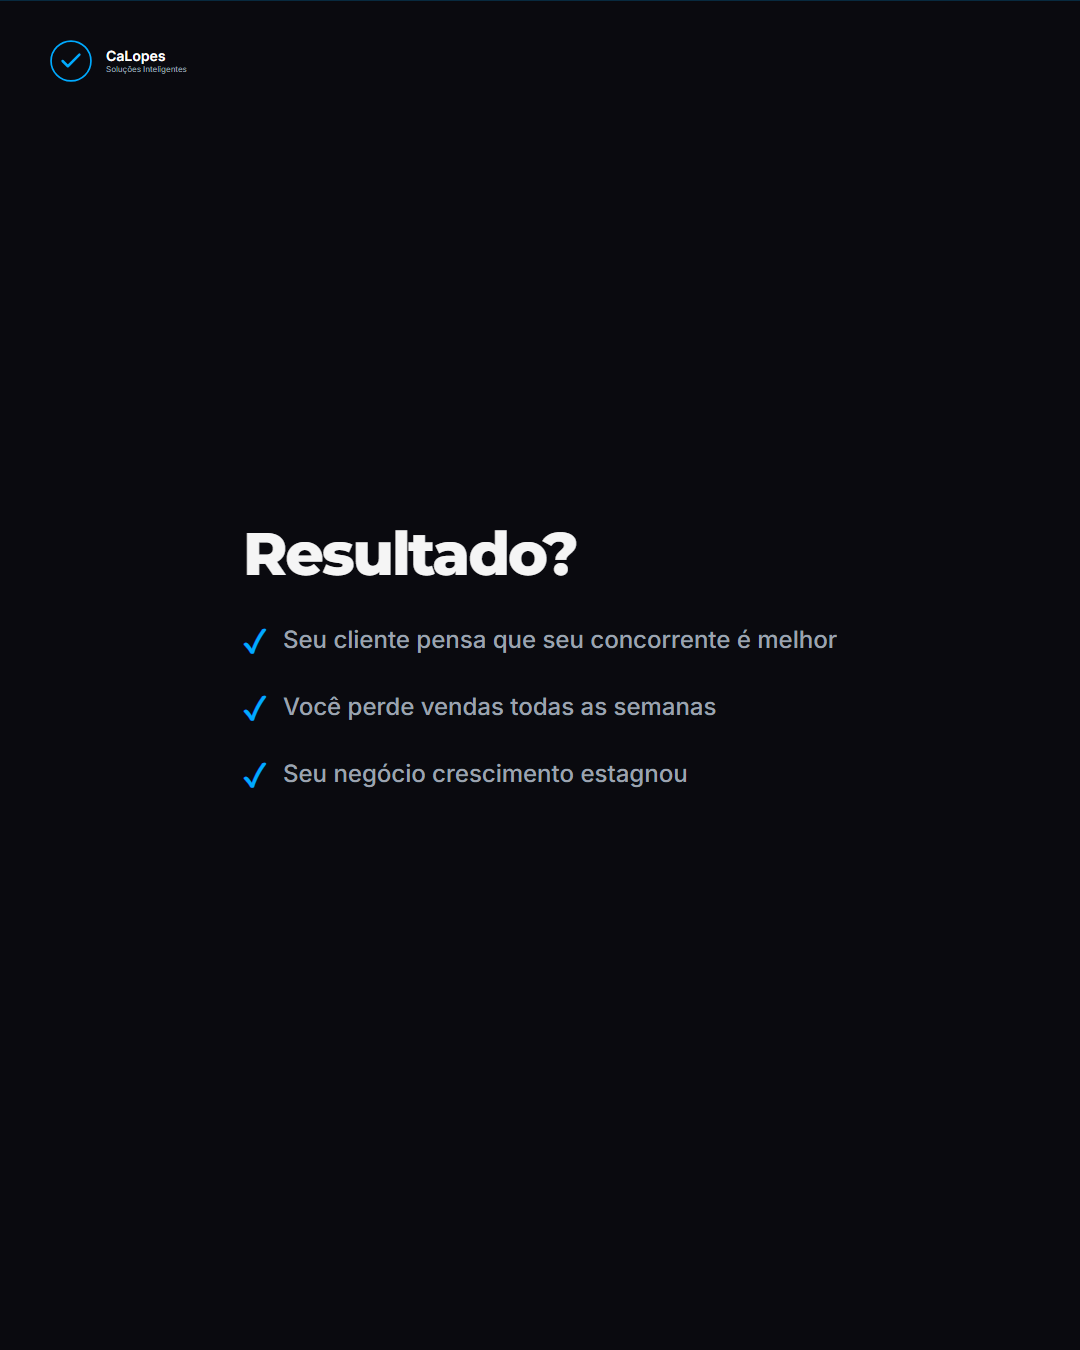
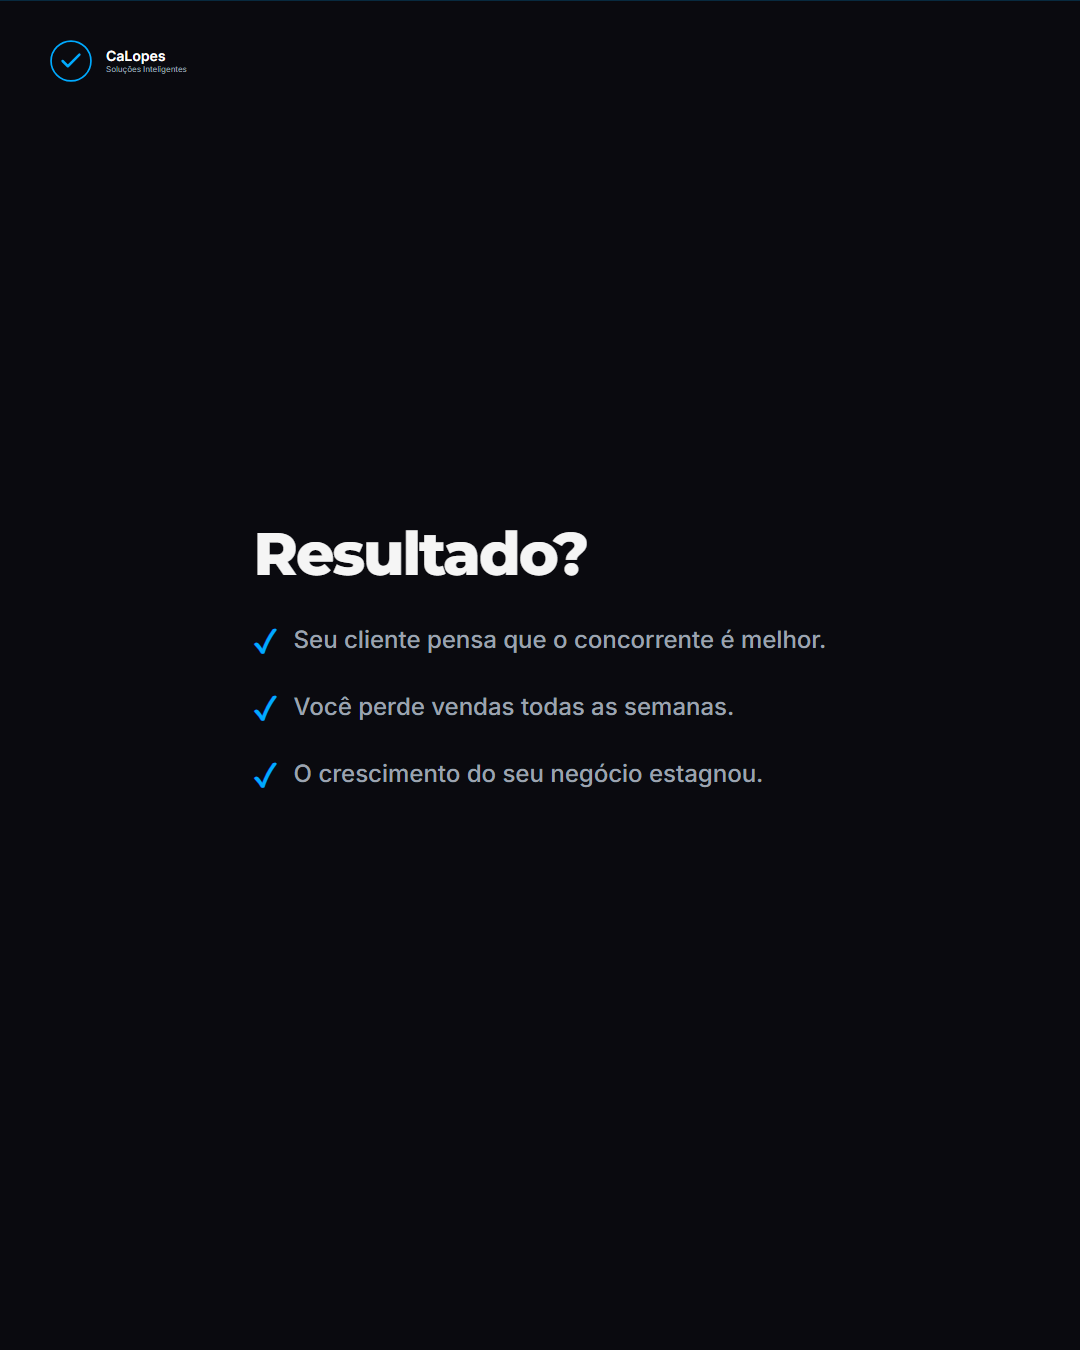
fix: revisão ortográfica e pontuação carrossel-04 conforme normas português brasileiro

Changed region(s): [[0.2139, 0.4667, 0.7639, 0.5289], [0.2139, 0.3733, 0.55, 0.4356], [0.2139, 0.56, 0.7028, 0.5911]]

diff --git a/clientes/calopes/instagram/carrossel-04-90-segundos/carrossel.html b/clientes/calopes/instagram/carrossel-04-90-segundos/carrossel.html
@@ -258,7 +258,7 @@
         </div>
         <div class="content">
             <h1>Os <span class="highlight">90 segundos</span></h1>
-            <h1 style="margin-top: 0.5em;">que definem seu sucesso</h1>
+            <h1 style="margin-top: 0.5em;">Que definem seu sucesso</h1>
             <p class="subtitle">Sem aparecer, você desaparece.</p>
         </div>
     </div>
@@ -280,7 +280,7 @@
         <div class="content">
             <div class="big-stat">80%</div>
             <p style="font-size: 28px; color: var(--text-primary); font-weight: 600;">dos clientes pesquisam no Google antes de ligar.</p>
-            <p style="margin-top: 2rem; font-size: 24px;">Se você não aparece lá nos primeiros <span class="highlight">90 segundos</span> de busca, o cliente já foi pro concorrente.</p>
+            <p style="margin-top: 2rem; font-size: 24px;">Se você não aparece lá nos primeiros <span class="highlight">90 segundos</span> de busca, o cliente já foi para o concorrente.</p>
         </div>
     </div>
 
@@ -301,7 +301,7 @@
         <div class="content">
             <h2 style="font-size: 56px;">A verdade incômoda:</h2>
             <p style="font-size: 28px; margin-top: 2rem;">Seu site não aparece não porque você é ruim.</p>
-            <p style="font-size: 28px; margin-top: 1.5rem;">Aparece porque o Google entende <span class="highlight">seu site é importante.</span></p>
+            <p style="font-size: 28px; margin-top: 1.5rem;">Aparece porque o Google entende <span class="highlight">que seu site é importante.</span></p>
             <p style="font-size: 22px; margin-top: 2rem; color: #9CA3AF;">A maioria das óticas e pequenos negócios não aparecem porque ninguém configurou isso.</p>
         </div>
     </div>
@@ -323,9 +323,9 @@
         <div class="content">
             <h2 style="font-size: 60px;">Resultado?</h2>
             <div class="checklist" style="margin-top: 2rem;">
-                <div class="check-item">Seu cliente pensa que seu concorrente é melhor</div>
-                <div class="check-item">Você perde vendas todas as semanas</div>
-                <div class="check-item">Seu negócio crescimento estagnou</div>
+                <div class="check-item">Seu cliente pensa que o concorrente é melhor.</div>
+                <div class="check-item">Você perde vendas todas as semanas.</div>
+                <div class="check-item">O crescimento do seu negócio estagnou.</div>
             </div>
         </div>
     </div>
@@ -371,7 +371,7 @@
         <div class="content">
             <div class="big-stat">87%</div>
             <p style="font-size: 28px; color: var(--text-primary); font-weight: 600;">dos acessos vêm do celular.</p>
-            <p style="margin-top: 2rem; font-size: 26px;">Se seu site demora pra carregar no celular, você já perdeu.</p>
+            <p style="margin-top: 2rem; font-size: 26px;">Se seu site demora para carregar no celular, você já perdeu.</p>
             <p style="margin-top: 1.5rem; font-size: 24px; color: var(--text-secondary);">O Google penaliza sites lentos. Seus clientes também.</p>
         </div>
     </div>
@@ -391,7 +391,7 @@
             </div>
         </div>
         <div class="content">
-            <h2 style="margin-bottom: 1.5rem;">Pronto pra começar?</h2>
+            <h2 style="margin-bottom: 1.5rem;">Pronto para começar?</h2>
             <p style="font-size: 26px; margin-bottom: 1.5rem;">Vamos conversar 10 minutos sobre seu site.</p>
             <p style="font-size: 22px; color: var(--text-secondary); margin-bottom: 2rem;"><span class="highlight">Sem compromisso.</span> Você vai entender exatamente por que não aparece e quanto está deixando de ganhar.</p>
             <div class="cta-box">

diff --git a/clientes/calopes/instagram/carrossel-04-90-segundos/legenda.md b/clientes/calopes/instagram/carrossel-04-90-segundos/legenda.md
@@ -5,13 +5,13 @@
 
 Se você não aparece lá, o cliente nunca chega até você.
 
-A maioria dos donos de ótica e pequenos negócios não aparece não porque é ruim — aparece porque ninguém configurou o site pra Google entender que você existe.
+A maioria dos donos de ótica e pequenos negócios não aparece não porque é ruim — aparece porque ninguém configurou o site para o Google entender que você existe.
 
-Enquanto isso, você está perdendo clientes toda semana pra quem SIM aparece nos primeiros resultados.
+Enquanto isso, você está perdendo clientes toda semana para quem SIM aparece nos primeiros resultados.
 
 Quer saber se seu site está aparecendo? Manda um DM que faço uma análise rápida.
 
-Link na bio pra marcar uma conversa de 10 minutos. Sem compromisso. Você vai entender exatamente quanto está deixando de ganhar.
+Link na bio para marcar uma conversa de 10 minutos. Sem compromisso. Você vai entender exatamente quanto está deixando de ganhar.
 
 #seo #google #siteprofissional #pequenasempresas #calopes #conversaodevizitas
 ```
